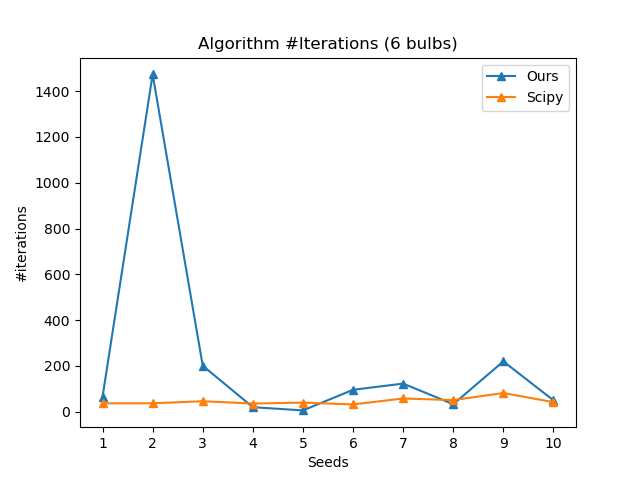
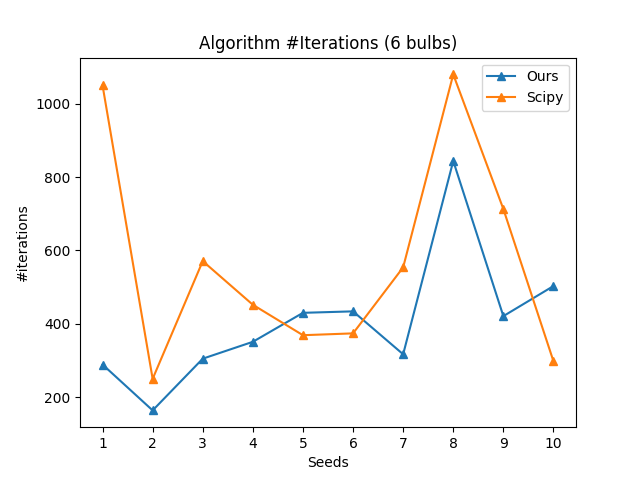
Nelder-Mead plots

diff --git a/neldor_mead.py b/neldor_mead.py
@@ -5,82 +5,99 @@ import copy
 from scipy.optimize import minimize
 
 
-def nelder_mead(func, xj, c=1, epsilon=10e-6, alpha=1., gamma=2., beta=-0.5, delta=0.5):
-    n=len(xj)
-    def simplex(x0):
-        lis=[x0]
-        for i in range(n):
-            x=copy.copy(x0)
-            x[i]+=c
-            lis.append(x)
-        return lis
-    simp=simplex(xj)
-    print(simp)
-    evaluations=[func(x) for x in simp]
-    sort_index=np.argsort(np.asarray(evaluations))
-    evaluations=[evaluations[x] for x in sort_index]
-    simp=[simp[x] for x in sort_index]
-    xw=simp[-1]
-    xl=simp[-2]
-    xb=simp[0]
+def nelder_mead(func, xj, c=1, epsilon=10e-8, alpha=1., gamma=2., beta=-0.5, delta=0.5,simp_type='proportional'):
+	n=len(xj)
+	def simplex(x0):
+		nonzdelt = 0.05
+		zdelt = 0.00025
+		lis=[x0]
+		if simp_type=='proportional':	
+			for i in range(n):
+				x=copy.copy(x0)
+				if x[i]!=0:
+					x[i]=(1+nonzdelt)*x[i]
+				else:
+					x[i]=zdelt
+				# x[i]+=c
+				lis.append(x)
+		else:
+			for i in range(n):
+				x=copy.copy(x0)
+				x[i]+=c
+				lis.append(x)
+		return lis
+	simp=simplex(xj)
+	print(simp)
+	evaluations=[func(x) for x in simp]
+	sort_index=np.argsort(np.asarray(evaluations))
+	evaluations=[evaluations[x] for x in sort_index]
+	simp=[simp[x] for x in sort_index]
+	xw=simp[-1]
+	xl=simp[-2]
+	xb=simp[0]
 
-    fw=func(xw)
-    fb=func(xb)
-    fl=func(xl)
-    
-    i=0
-    while (fw-fb) > epsilon:
-        print("Iter No. ",i,xb, fb)
-        i+=1
-        evaluations=[func(x) for x in simp]
-        sort_index=np.argsort(np.asarray(evaluations))
-        evaluations=[evaluations[x] for x in sort_index]
-        simp=[simp[x] for x in sort_index]
-        xw=simp[-1]
-        xl=simp[-2]
-        xb=simp[0]
-        fw=func(xw)
-        fb=func(xb)
-        fl=func(xl)
-        xa= np.mean(np.asarray(simp[0:-1]),axis=0) #centroid
-        xr= xa + alpha*(xa-xw) #reflection
-        fr=func(xr)
-        if fb<=fr < fl:
-            simp[-1]=xr  #accept reflection
-        elif fr< fb:
-            xe= xa + gamma*(xa-xw)  #expansion
-            fe=func(xe)     
-            if fe<fr: 
-                simp[-1]=xe        #accept expansion
-            else:
-                simp[-1]=xr        #accept reflection
-        else:
-            xc= xa + beta*(xa-xw)
-            fc=func(xc)            #contraction
-            if fc<fw:
-                simp[-1]=xc        #accept contraction
-            else:
-                simp= [xb + delta*(x-xb) for x in simp] #shrink the simplex
-    return xb,fb
+	fw=func(xw)
+	fb=func(xb)
+	fl=func(xl)
+	
+	i=0
+	while (fw-fb) > epsilon:
+		# if i%50==0:
+		# 	print("Iter No. ",i,xb, fb)
+		i+=1
+		sort_index=np.argsort(np.asarray(evaluations))
+		evaluations=[evaluations[x] for x in sort_index]
+		simp=[simp[x] for x in sort_index]
+		xw=simp[-1]
+		xl=simp[-2]
+		xb=simp[0]
+		fw=evaluations[-1]
+		fl=evaluations[-2]
+		fb=evaluations[0]
+		xa= np.mean(np.asarray(simp[0:-1]),axis=0) #centroid
+		xr= xa + alpha*(xa-xw) #reflection
+		fr=func(xr)
+		if fb<=fr < fl:
+			simp[-1]=xr  #accept reflection
+			evaluations[-1]=fr
+		elif fr< fb:
+			xe= xa + gamma*(xa-xw)  #expansion
+			fe=func(xe)     
+			if fe<fr: 
+				simp[-1]=xe        #accept expansion
+				evaluations[-1]=fe
+			else:
+				simp[-1]=xr        #accept reflection
+				evaluations[-1]=fr
+		else:
+			xc= xa + beta*(xa-xw)
+			fc=func(xc)            #contraction
+			if fc<fw:
+				simp[-1]=xc        #accept contraction
+				evaluations[-1]=fc
+			else:
+				simp= [xb + delta*(x-xb) for x in simp] #shrink the simplex
+				evaluations=[func(x) for x in simp]
+	return xb, i
 
 
 if __name__ == "__main__":
 
-    num_bulbs=3
-    np.random.seed(42)
-    xj = np.random.randn(2 * num_bulbs)*2
+	num_bulbs=3
+	np.random.seed(42)
+	xj = np.random.randn(2 * num_bulbs)*2
 
-    room = Roof(20, 10, 7, plane_height=5, objective_type='simple_std')
-    
-    room.show_plane(xj)
-    print(room.objective_function(xj))
-    # def f(xw):
-    # 	return room.objective_function(xw)
+	room = Roof(20, 10, 7, plane_height=5, objective_type='simple_std')
+	
+	room.show_plane(xj)
+	print(room.objective_function(xj))
+	# def f(xw):
+	# 	return room.objective_function(xw)
 
-    ans = nelder_mead(room.objective_function, xj)
-    # ans = minimize(room.objective_function, xj, method='Nelder-Mead')
-    print(ans)
-    room.show_plane(ans[0])
+	ans = nelder_mead(room.objective_function, xj)
+	# ans = minimize(room.objective_function, xj, method='Nelder-Mead')
+	print(ans)
+	room.show_plane(ans[0])
 
 
 

diff --git a/nelder_eval.py b/nelder_eval.py
@@ -1,0 +1,75 @@
+"""For all metrics, comparison and plotting code."""
+
+import argparse
+import numpy as np
+
+from environment import Room, Roof
+from fletcher_reeves import fletcher_reeves
+from scipy.optimize import minimize
+from neldor_mead import nelder_mead
+import time
+parser = argparse.ArgumentParser()
+
+parser.add_argument('-L', type=float, default=10)
+parser.add_argument('-B', type=float, default=20)
+parser.add_argument('-H', type=float, default=15)
+parser.add_argument('--num_bulbs', type=int, default=4)
+parser.add_argument('--obj_function', type=str, default='simple_std')
+
+
+SciPy_nm, SciPy_cg, FR = [], [], []
+SciPy_cg_nit, SciPy_nm_nit, FR_nit = [], [], []
+SciPy_cg_time, SciPy_nm_time, FR_time = [],[],[]
+
+def optimise(args,s):
+    global SciPy_cg, SciPy_nm, FR, SciPy_cg_nit, SciPy_nm_nit,\
+     FR_nit, SciPy_cg_time, SciPy_nm_time, FR_time
+    num_bulbs = args.num_bulbs
+    np.random.seed(s)
+
+    x0 = np.random.randn(2*num_bulbs)*2
+
+
+    # SciPy Conjugate Gradient
+    room = Roof(args.L, args.B, args.H, objective_type=args.obj_function)
+    
+    start = time.time()
+    res = minimize(room.J, x0,
+                   method='Nelder-Mead', options={'disp': False})
+    end = time.time()
+    
+    SciPy_cg.append(res.fun)
+    SciPy_cg_nit.append(res.nit)
+    SciPy_cg_time.append(end-start)
+    # room.show_plane(res.x)
+    # print(f"Minima at\n{room.to_pos(res.x).round(2)}")
+    # Fletcher Reeves
+
+    room = Roof(args.L, args.B, args.H, objective_type=args.obj_function)
+
+    start = time.time()
+    x, count = nelder_mead(room.J, x0)
+    end = time.time()
+
+    FR.append(float(room.J(x)))
+    FR_nit.append(count)
+    # room.show_plane(x)
+
+    print(f"\nMinimum Value = {room.J(x)}")
+    print(f"\nMinima at\n{room.to_pos(x).round(2)}")
+    FR_time.append(end-start)
+
+
+
+if __name__ == '__main__':
+    args = parser.parse_args()
+    print('Loss:', SciPy_cg, FR)
+    print('NIT:', SciPy_cg_nit, FR_nit)
+    print('Time:',SciPy_cg_time, FR_time)
+    import pickle as pkl
+    for i in range(10):
+        optimise(args,i)
+    pkl.dump([SciPy_cg, FR, SciPy_cg_nit, FR_nit, SciPy_cg_time, FR_time]
+        , open('data/nelder_mead/4bulbs.pkl','wb+'))
+
+

diff --git a/plot.py b/plot.py
@@ -29,13 +29,13 @@ def save_combined(val_ours, val_scipy, x, title, xtitle, ytitle, save_name):
     plt.close()
 
 
-num_bulbs = 6
+num_bulbs = 4
 x = list(range(1, 11))
 # [SciPy_nm, SciPy_cg, FR, SciPy_nm_nit, SciPy_cg_nit, FR_nit, SciPy_nm_time, SciPy_cg_time, FR_time] = pkl.load( open('5bulbs_25-35.pkl','rb'))
-el1 = pkl.load( open('6bulbs_15-20.pkl','rb'))
-el2 = pkl.load( open('6bulbs_50-55.pkl','rb'))
+el1 = pkl.load( open('data/nelder_mead/4bulbs.pkl','rb'))
+# el2 = pkl.load( open('6bulbs_50-55.pkl','rb'))
 
-[SciPy_nm, SciPy_cg, FR, SciPy_nm_nit, SciPy_cg_nit, FR_nit, SciPy_nm_time, SciPy_cg_time, FR_time] = [x1+x2 for (x1, x2) in zip(el1, el2)]
+[SciPy_cg, FR, SciPy_cg_nit, FR_nit, SciPy_cg_time, FR_time] = el1
 
 # print(len(SciPy_cg))
 
@@ -82,4 +82,4 @@ def plot_gamma_variation():
     pass
 
 if __name__ == '__main__':
-    plot_niter_variation()
+    plot_values()
